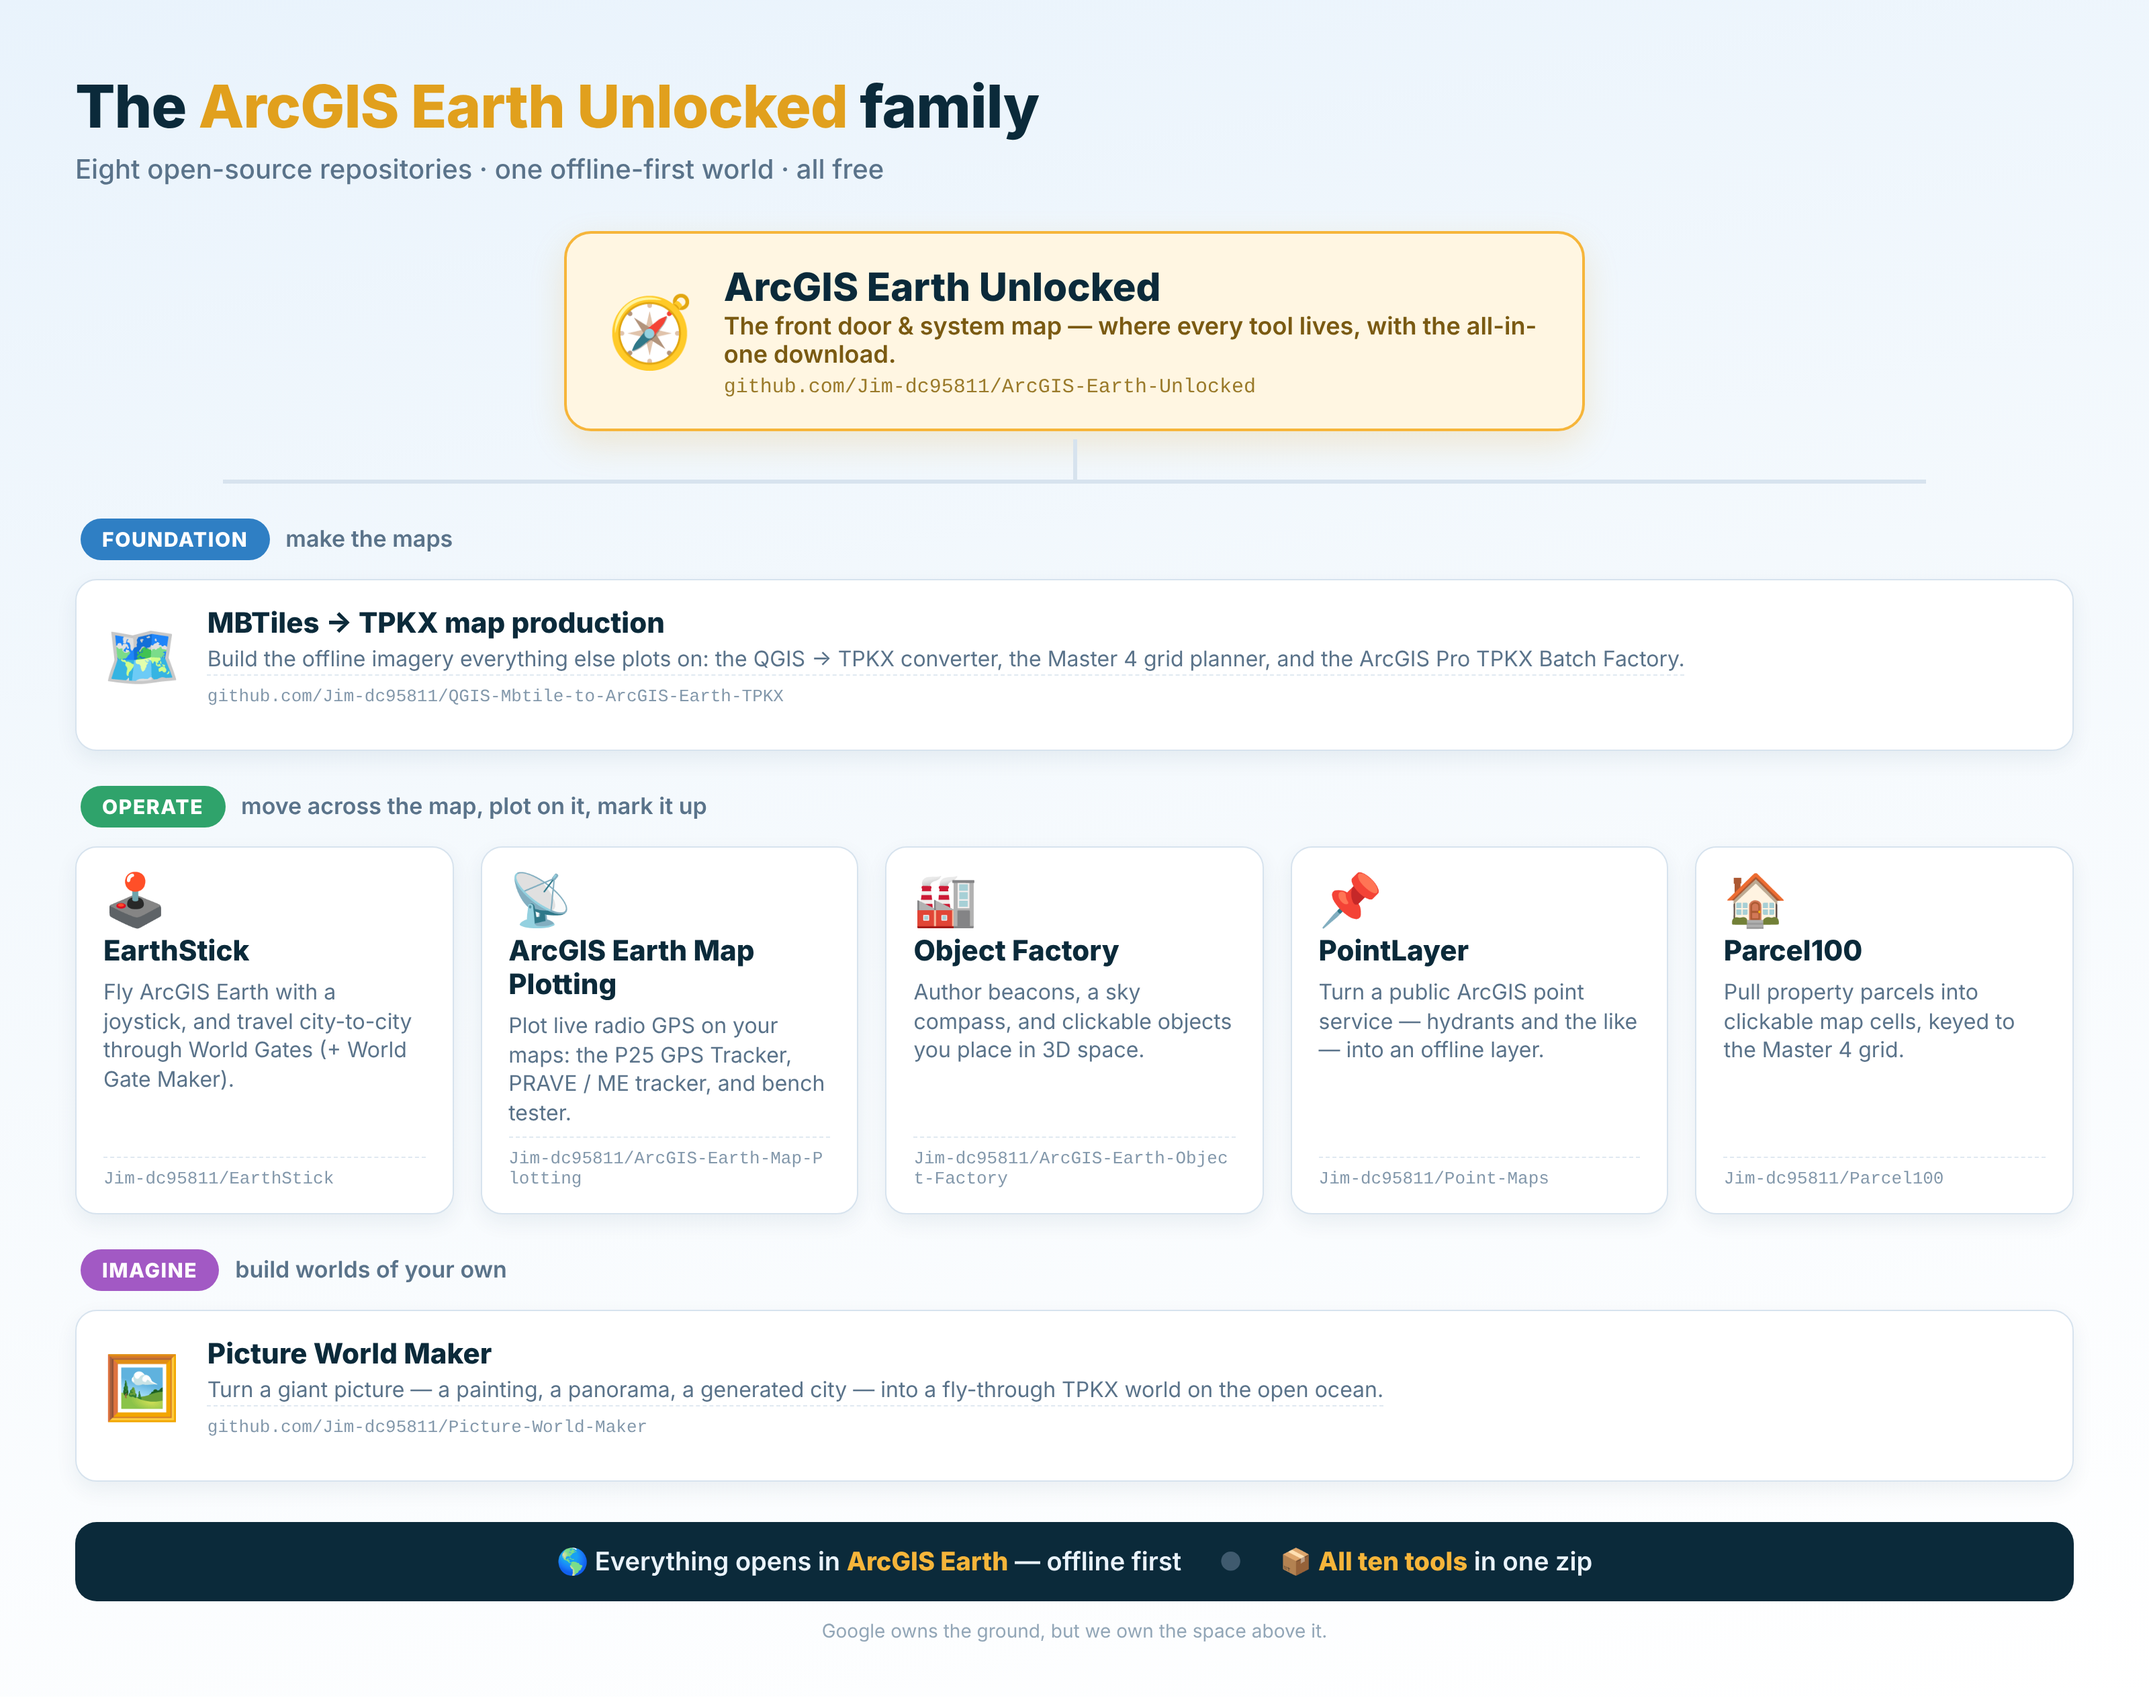
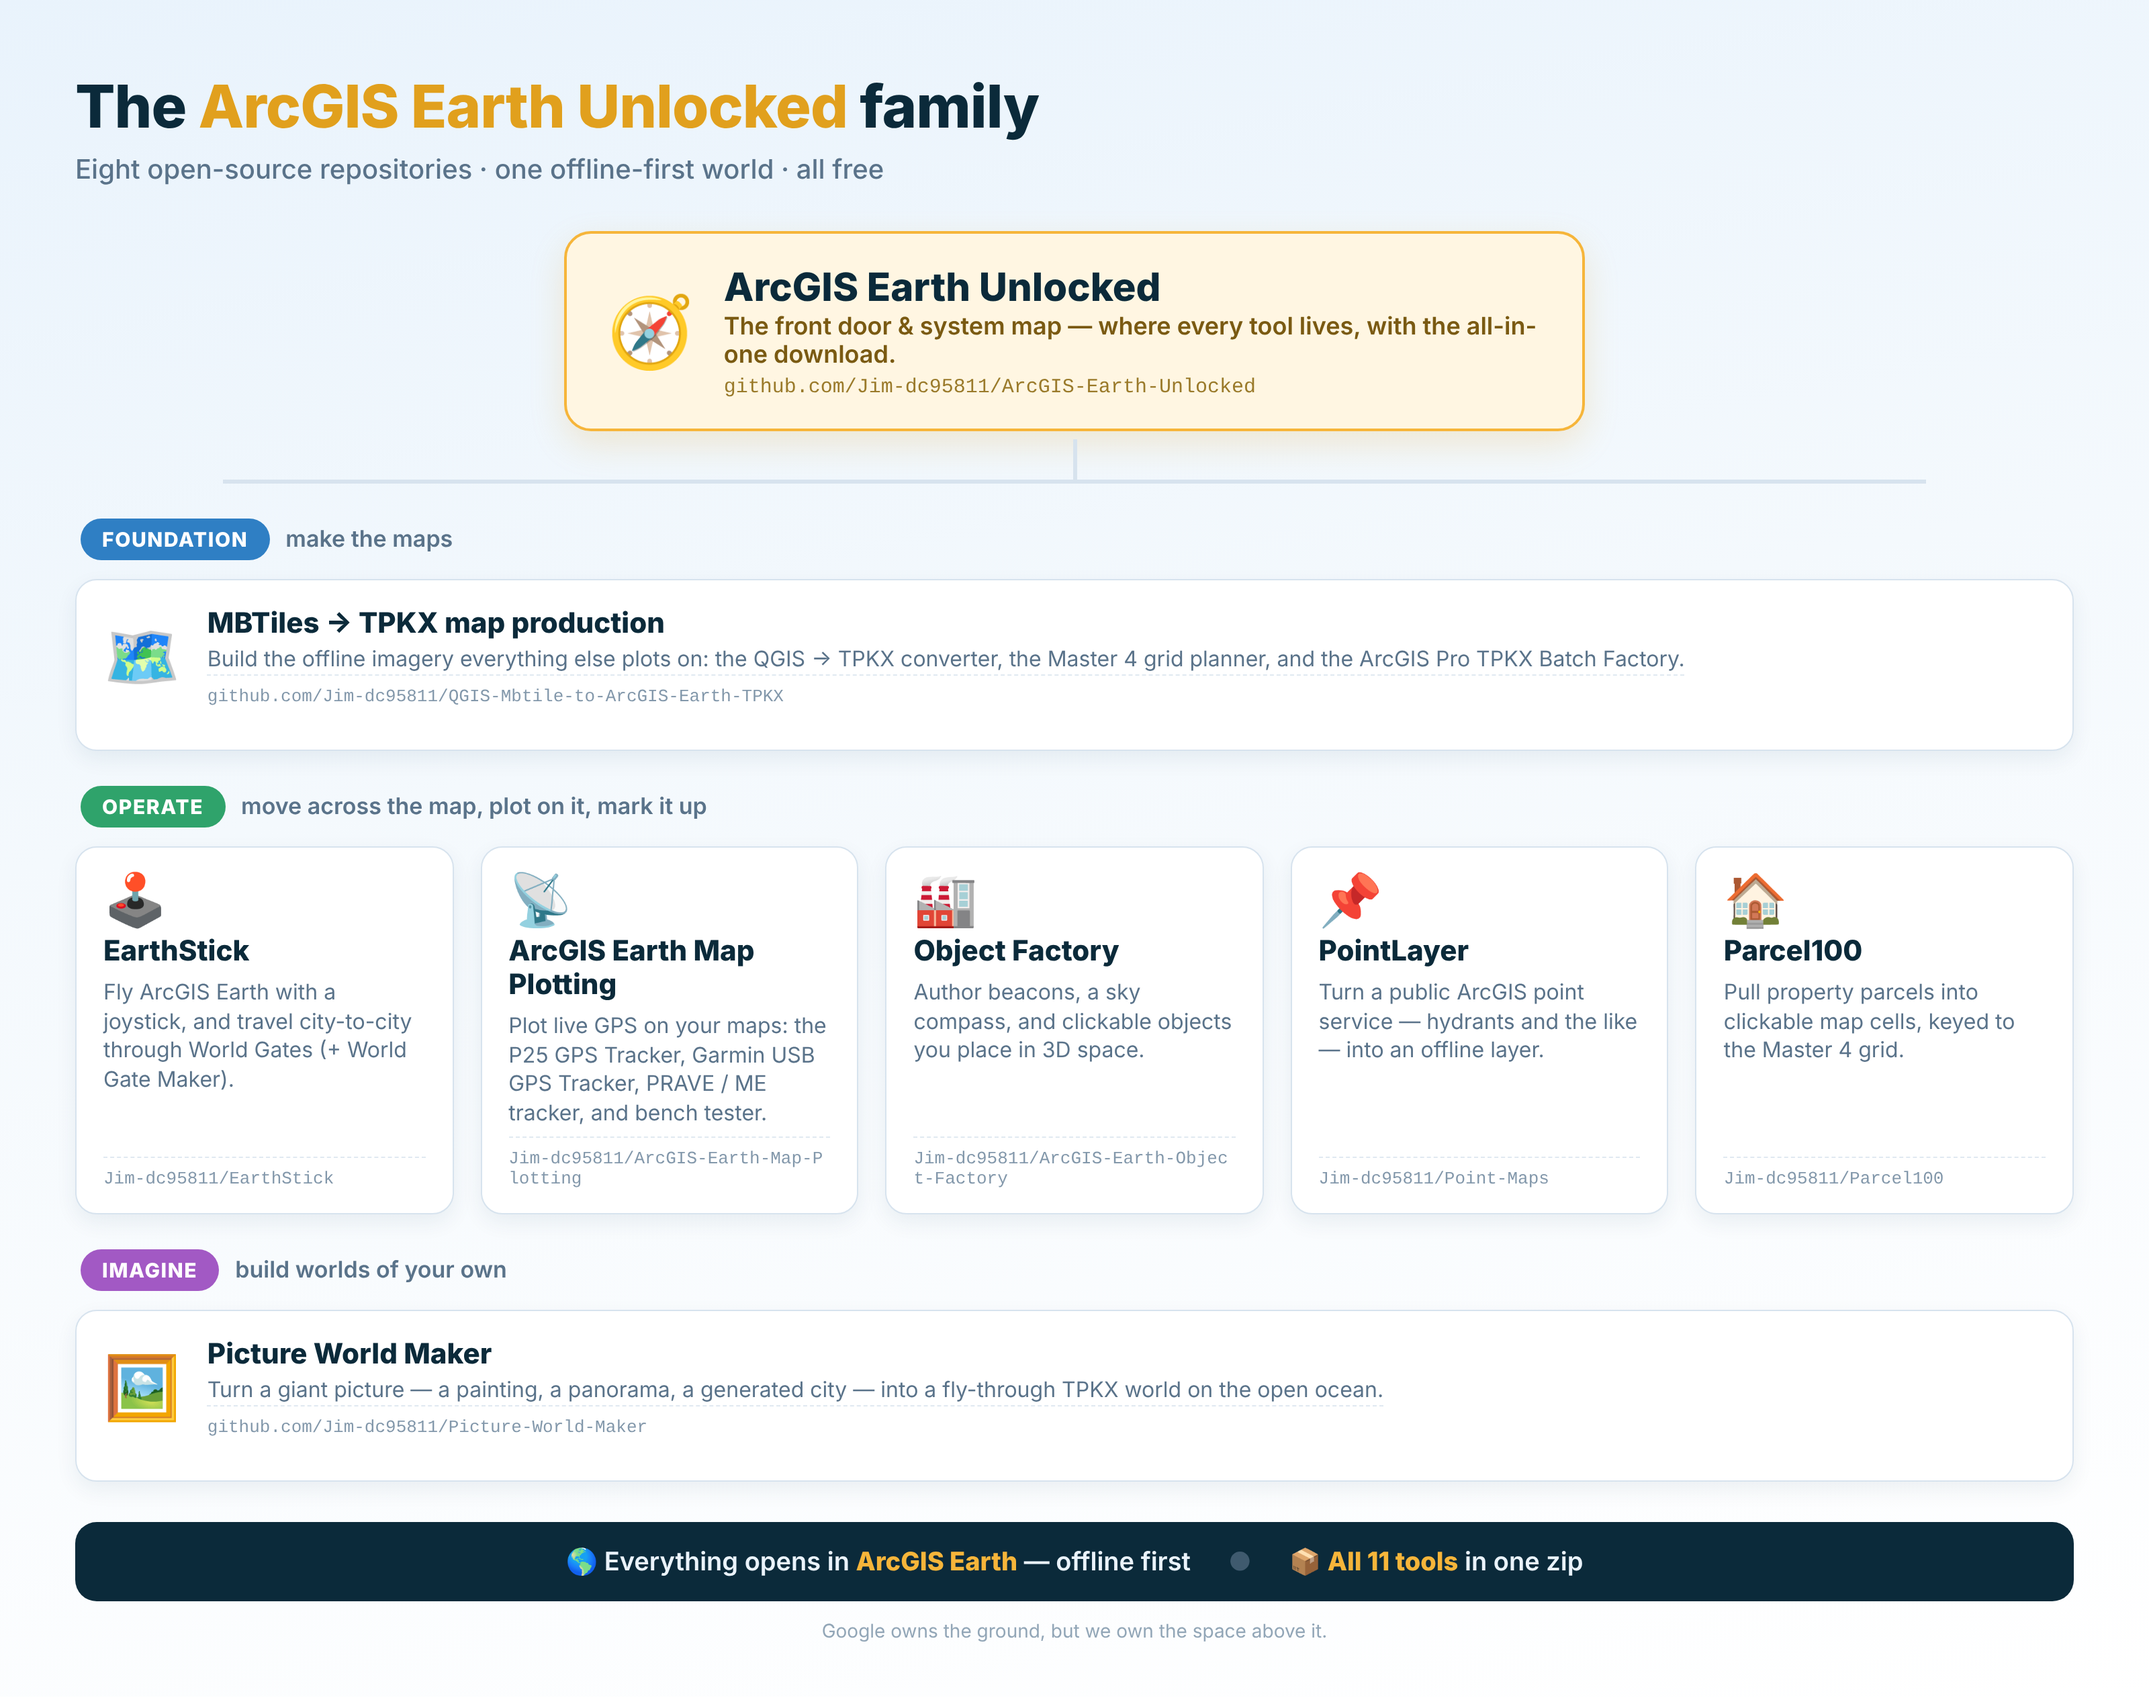
Family pictogram: add Garmin to the Map Plotting card, 'All 11 tools' footer; re-render family.png
Claude-Session: https://claude.ai/code/session_01MnLGTHyhGnworHWEFuwHD3

Changed region(s): [[0.25, 0.9062, 0.5625, 0.9375], [0.25, 0.5938, 0.375, 0.6562], [0.5938, 0.9062, 0.75, 0.9375]]

diff --git a/tools/graphics/make_family_pictogram.html b/tools/graphics/make_family_pictogram.html
@@ -108,7 +108,7 @@
       <div class="card">
         <div class="ico">📡</div>
         <div class="nm">ArcGIS Earth Map Plotting</div>
-        <div class="one">Plot live radio GPS on your maps: the P25 GPS Tracker, PRAVE / ME tracker, and bench tester.</div>
+        <div class="one">Plot live GPS on your maps: the P25 GPS Tracker, Garmin USB GPS Tracker, PRAVE / ME tracker, and bench tester.</div>
         <div class="slug">Jim-dc95811/ArcGIS-Earth-Map-Plotting</div>
       </div>
       <div class="card">
@@ -150,7 +150,7 @@
   <div class="foot">
     <span>🌎 Everything opens in <span class="b">ArcGIS Earth</span> — offline first</span>
     <span class="dot">●</span>
-    <span>📦 <span class="b">All ten tools</span> in one zip</span>
+    <span>📦 <span class="b">All 11 tools</span> in one zip</span>
   </div>
   <div class="note">Google owns the ground, but we own the space above it.</div>
 </body></html>
